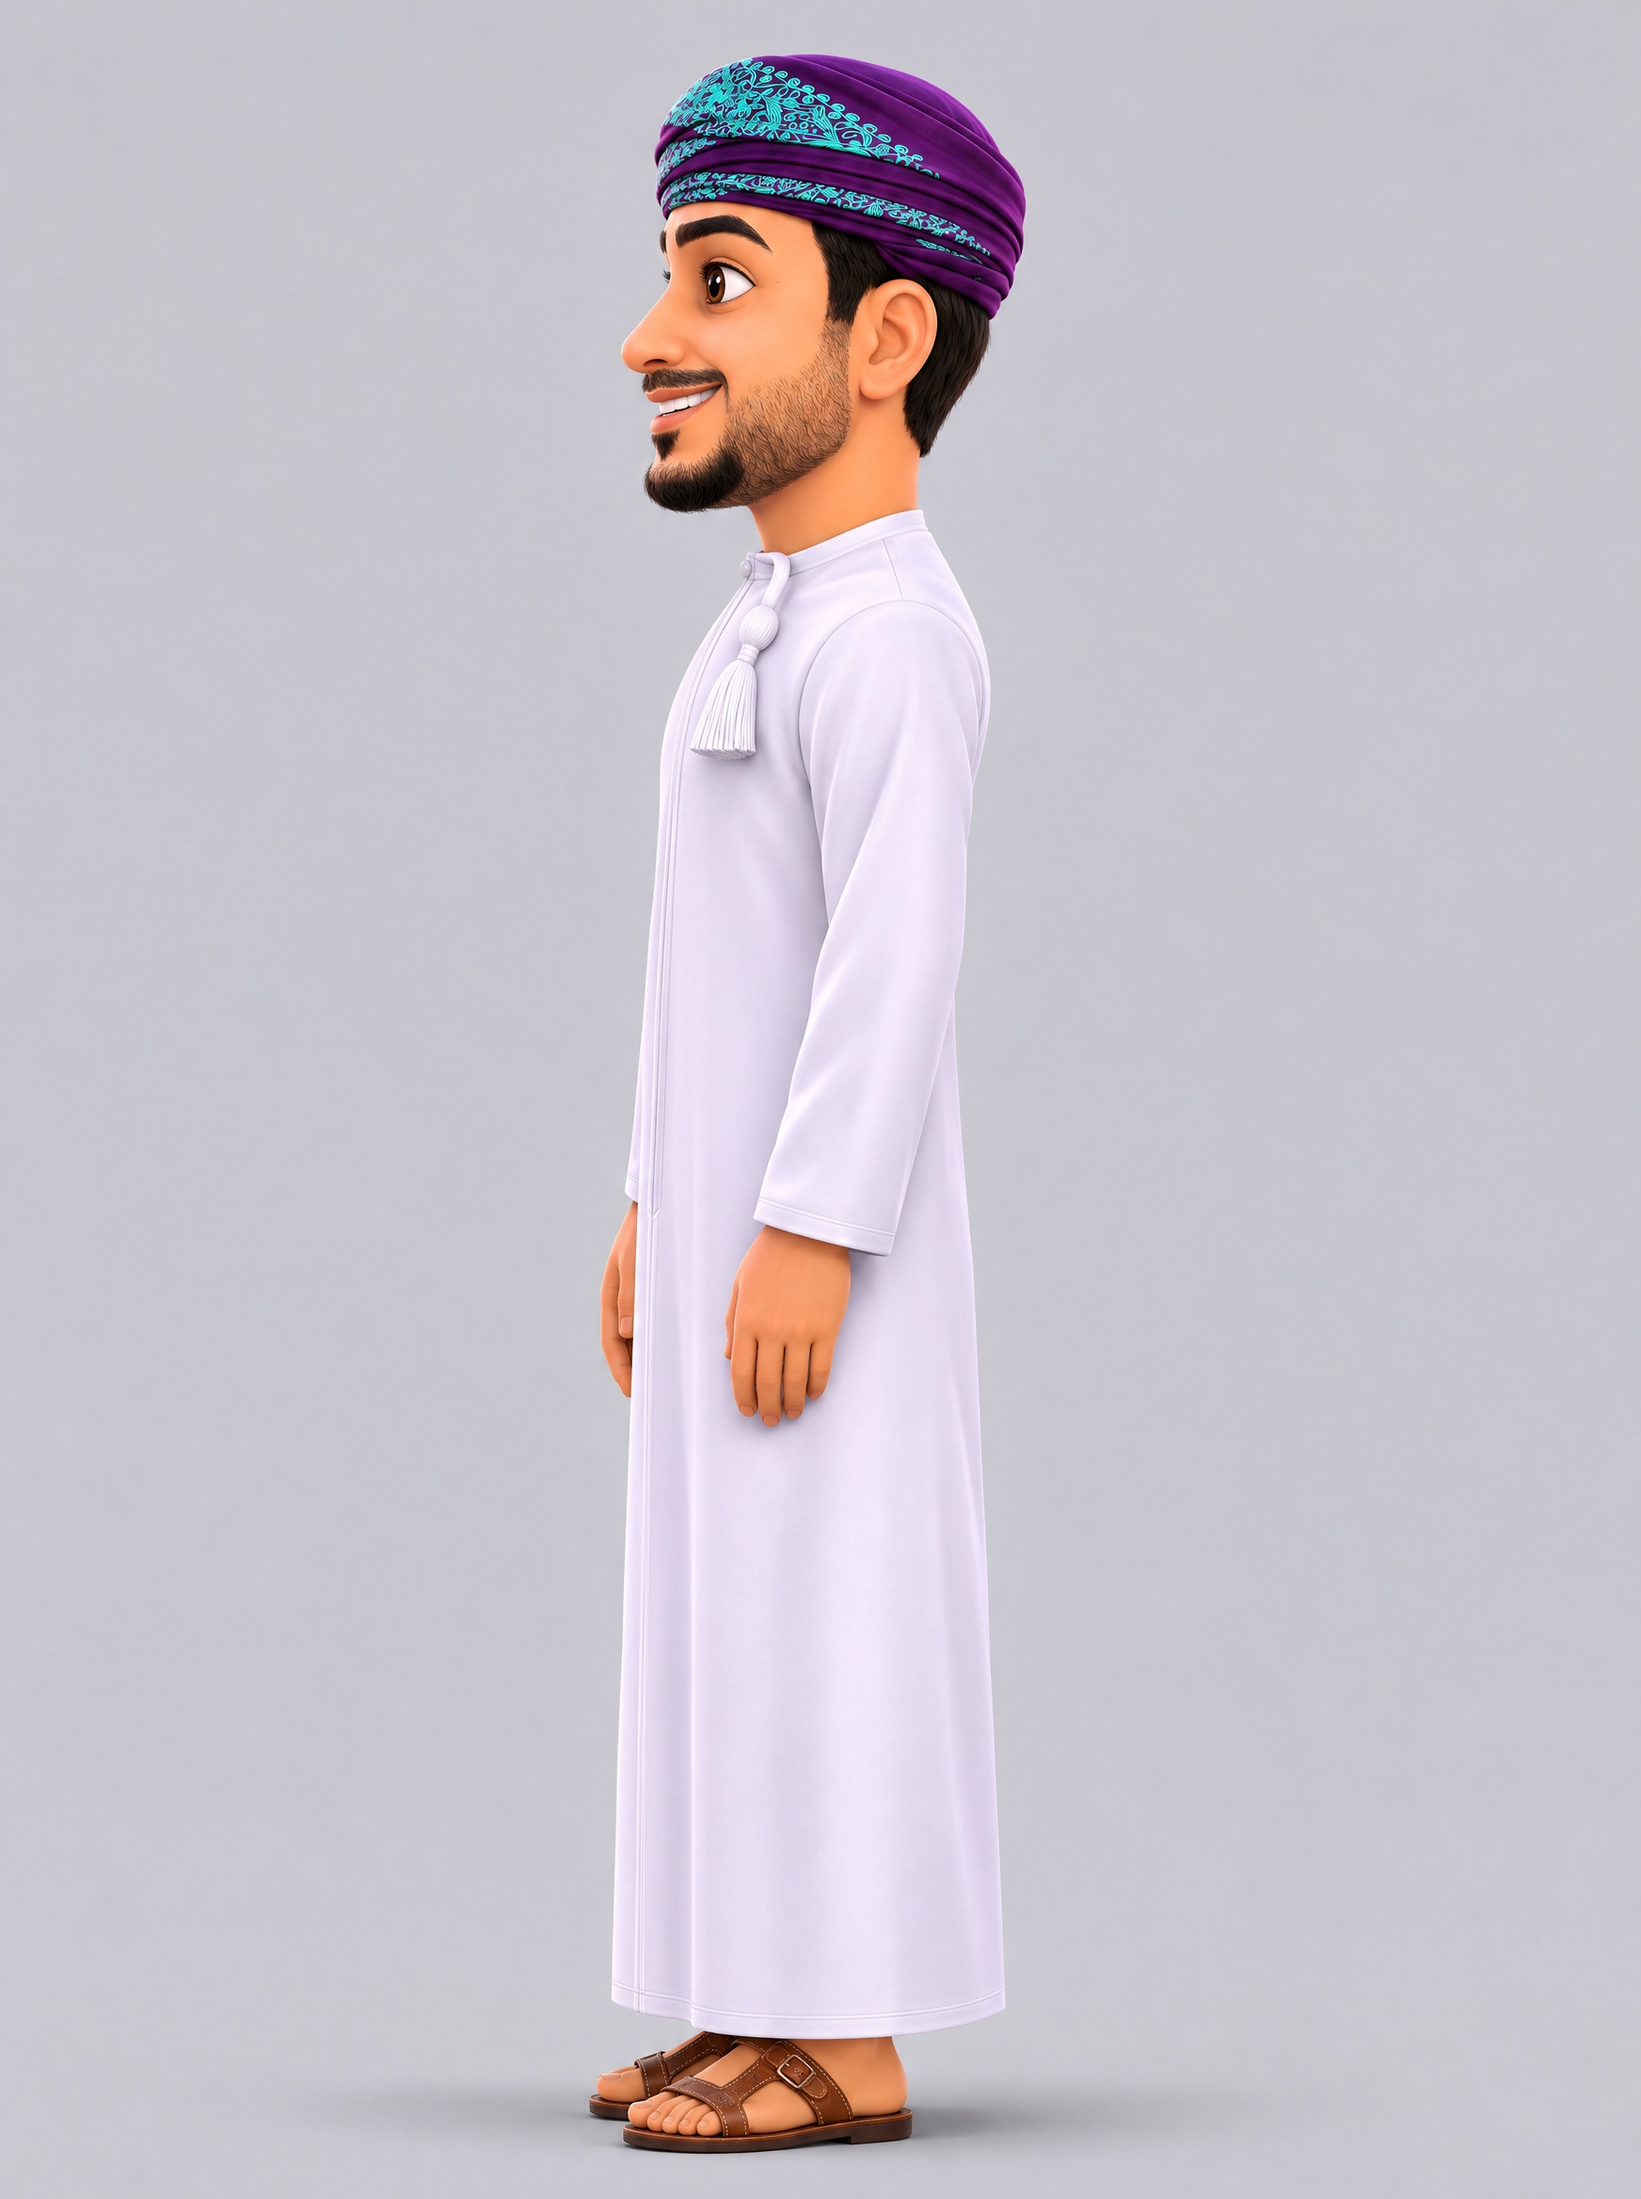
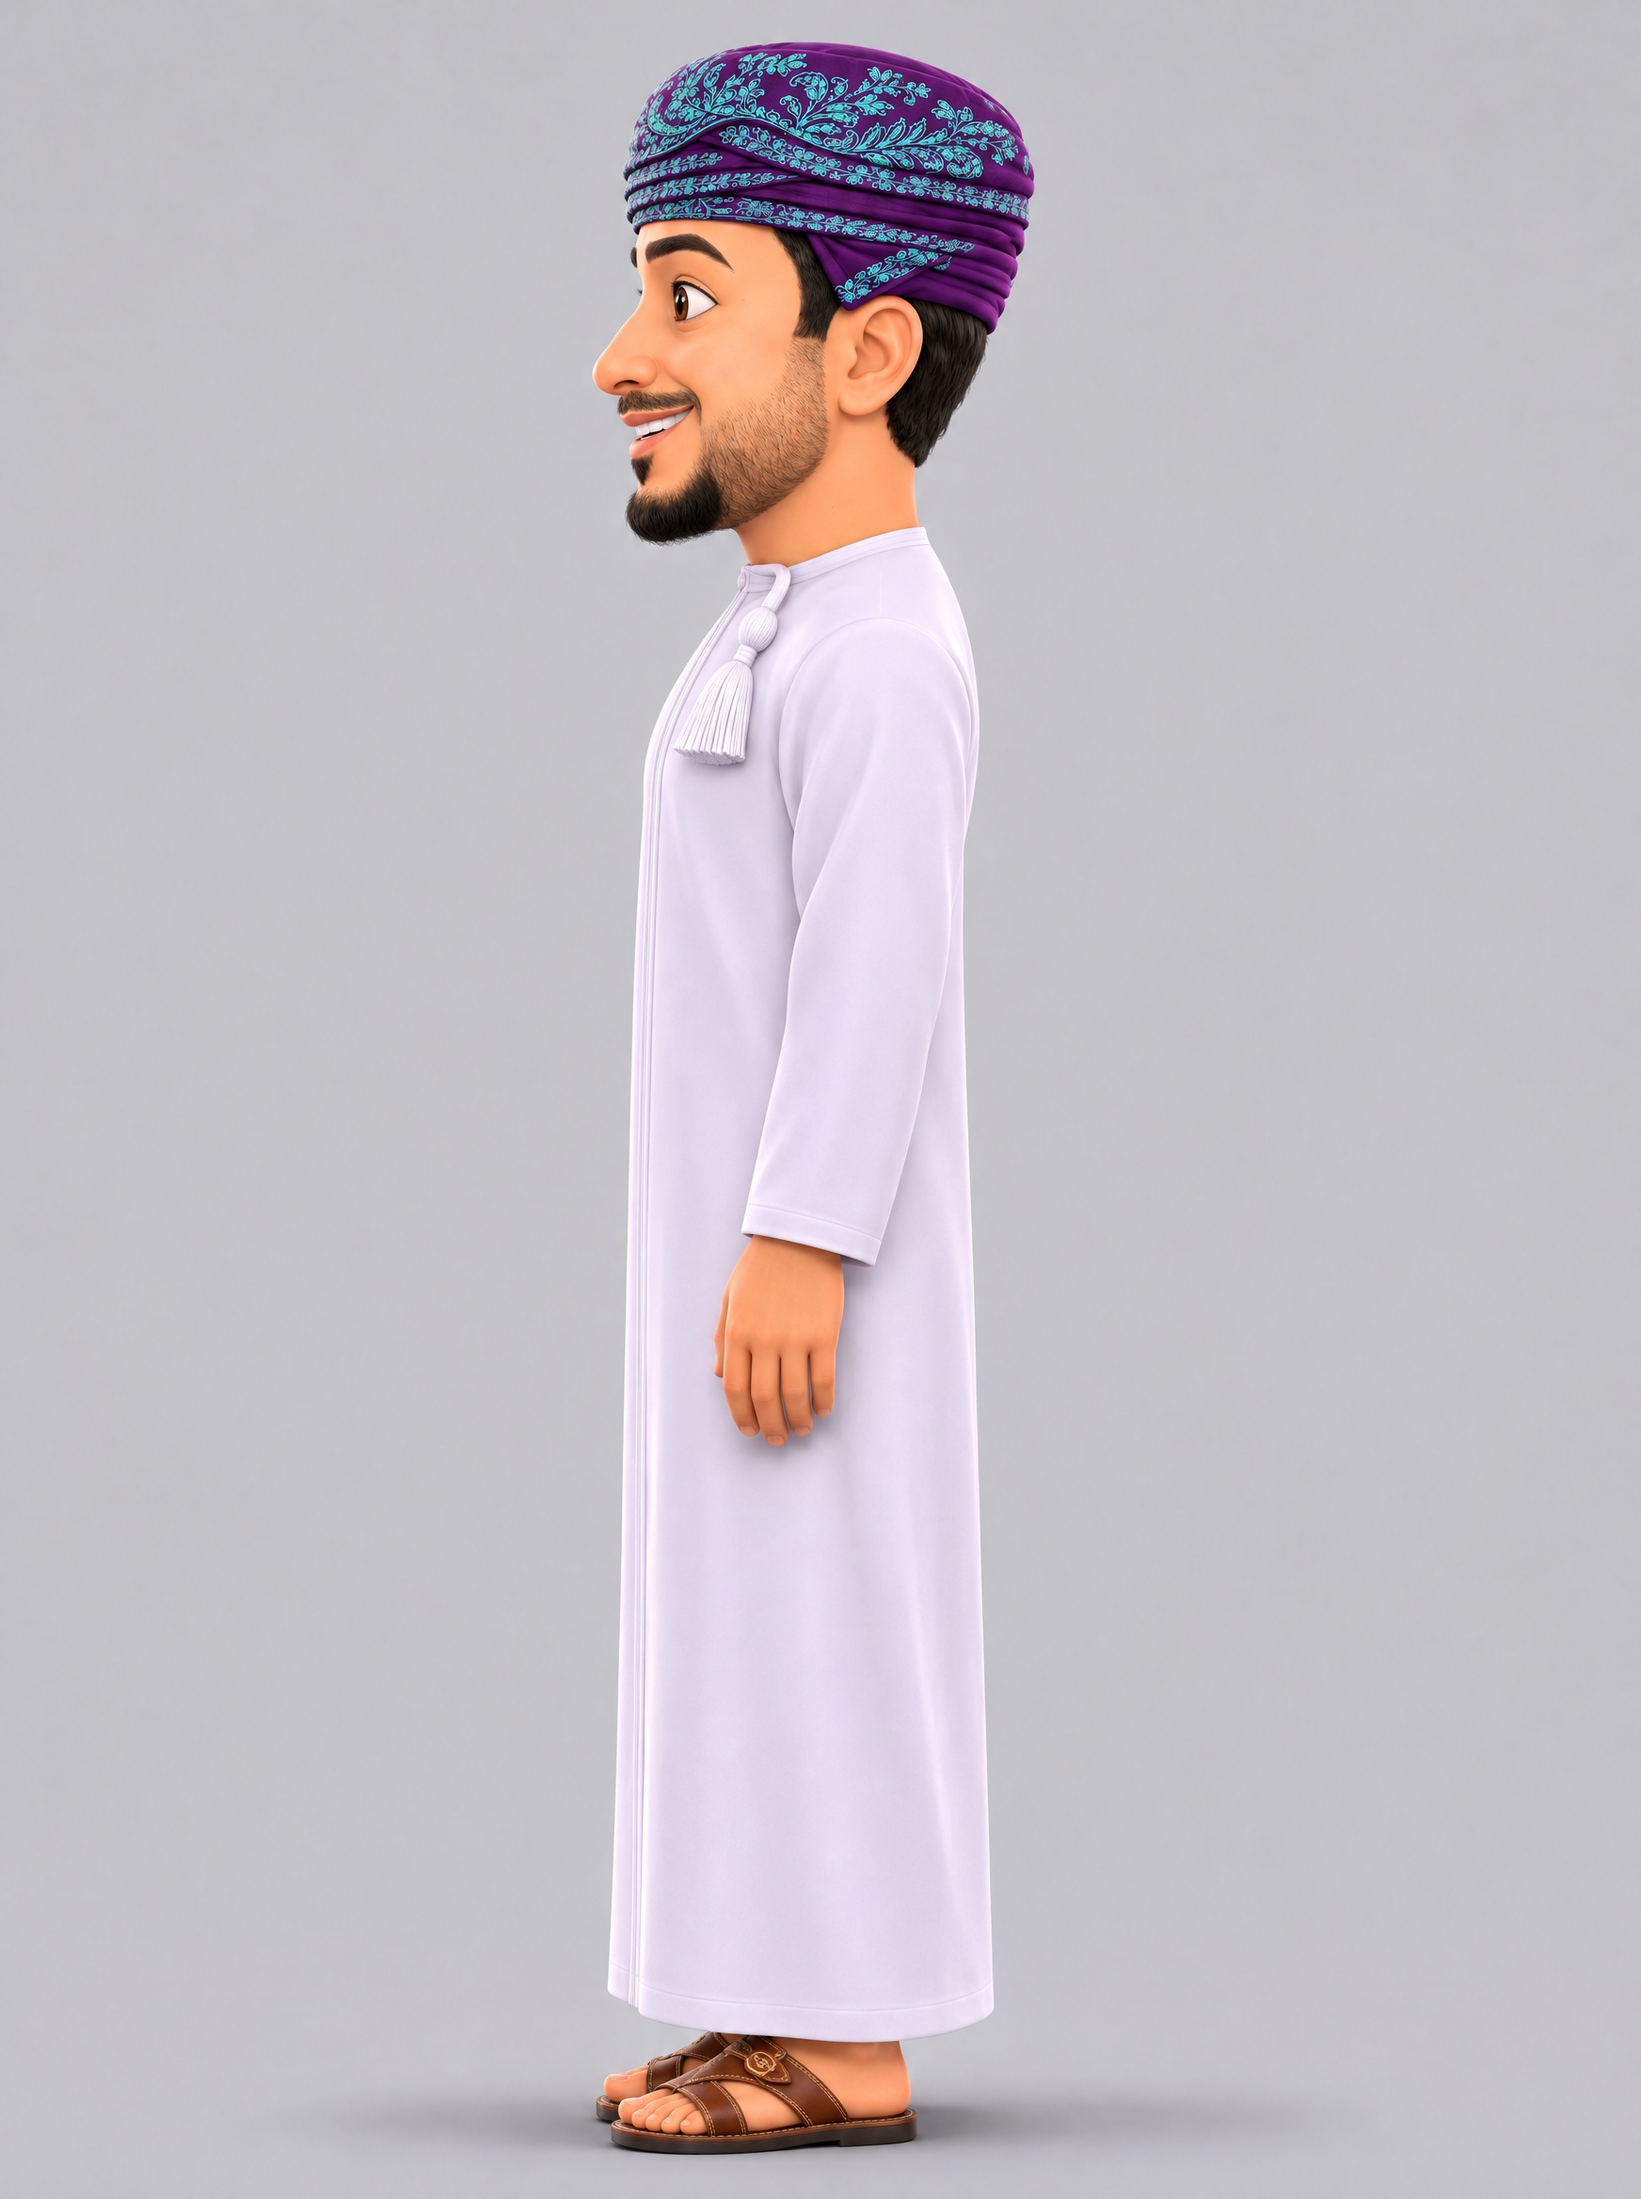
Replace character set with approved version C (corrected massar)
Claude-Session: https://claude.ai/code/session_01P5aQADctdX3tfJ4dDGa9xf

diff --git a/bviro/avatar/README.md b/bviro/avatar/README.md
@@ -5,28 +5,32 @@
 ## القواعد
 - الشخصية تشرح فقط: لا تقول «جرّبت» ولا تنقل آراء عملاء.
 - وسم «محتوى بالذكاء الاصطناعي» يُفعّل في كل فيديو تظهر فيه.
-- دشداشة بيضاء، مصر بنفسجي بتطريز تركوازي صغير الحجم. بدون خنجر ولا شعارات.
+- دشداشة بيضاء، مصر بنفسجي بتطريز تركوازي، منخفض وملتصق بالرأس. بدون خنجر ولا شعارات.
 - أي توليد جديد يحتاج موافقة بدر على الرصيد.
 
-## الملفات
+## الملفات (النسخة المعتمدة C، 17 نوفمبر 2026)
 - `bader_master.jpg`: النسخة الرئيسية المعتمدة (المرجع الأول لأي توليد).
 - `01_front` .. `10_face_closeup`: عشر زوايا مرجعية.
 - `bader_character_sheet.jpg`: الورقة المجمّعة.
 
+## ملاحظات بدر على الشكل (لا تُخالف)
+- الوجه هو وجه الخيار رقم 5 كما هو: لا تكبير للعمر ولا تعريض للوجه.
+- المصر منخفض وملتصق بالرأس، من المقدمة طيات مائلة تكوّن مثلثاً انسيابياً، وعند الأذن مثلث صغير.
+
 ## معرّفات Higgsfield (تُستخدم كمرجع صورة مباشرة)
-- master: c007d8c9-58a0-40cd-849d-658632ba4a53
-- 01 front: 7527ddd0-0aa6-4849-9988-8de9e7a59a9a
-- 02 three-quarter: df9ad8ee-6799-41d5-8a83-abdd5449faa2
-- 03 three-quarter: 0ad708e7-f730-4806-9c34-c5ba5bab9347
-- 04 profile (left): 005dbbf5-0829-4912-b814-5540a06405da
-- 05 profile (right): ee9089bf-b281-4227-9645-4280bbddf26b
-- 06 back: a2a1320c-1c9a-4616-be2a-c64ebbe1cde0
-- 07 full front: dade0511-c311-499c-9cf4-0158e3b836b3
-- 08 full three-quarter: be94bc5a-e30d-4383-964b-180f126cc473
-- 09 full profile: 3acd49ee-0d5d-4b84-8144-23079962e75f
-- 10 face close-up: ee97c526-7767-4555-997b-a53414ad331a
+- master: 5a3049d7-37c7-433e-a86f-f0a4da16f5c8
+- 01 front: ed159513-8746-4540-84d6-0692b25ff1d5
+- 02 three-quarter left: dd35f5b2-7a56-4196-8d62-df8a747a5450
+- 03 three-quarter right: 1ef5058c-ae96-4f50-9b9c-7b719bf44c68
+- 04 profile left: c0d7bd98-53f8-4f61-abe3-0cf52f2f6bc1
+- 05 profile right: b569b6d3-49ac-4ce1-9fe4-c57984a5dec2
+- 06 back: 939857e0-c303-4e9e-bde3-b60cc3b96b2a
+- 07 full front: 4c6085c0-0407-43de-b6d1-f802934c2292
+- 08 full three-quarter: afbcf905-6080-43de-b3c2-2324395a32ce
+- 09 full profile: a3d95b83-b04a-4a03-9a5d-868dd75679ae
+- 10 face close-up: 8f972938-d769-4570-aa35-be16cc1bc4bc
 
 ## صيغة الوصف المعتمدة
 Clearly cartoon 3D animated movie character, not photorealistic; large head, big expressive eyes with glossy irises,
 smooth stylized skin, sculpted short boxed beard with thin moustache and small soul patch, thick eyebrows; plain white
-Omani dishdasha with white tassel; small snug purple massar with turquoise embroidery; no text, logos, weapons or flags.
+Omani dishdasha with white tassel; low compact purple massar close to the skull with turquoise paisley embroidery, diagonal folds meeting in a flowing triangle at the front, small triangular folded corner above each ear; no text, logos, weapons or flags.
